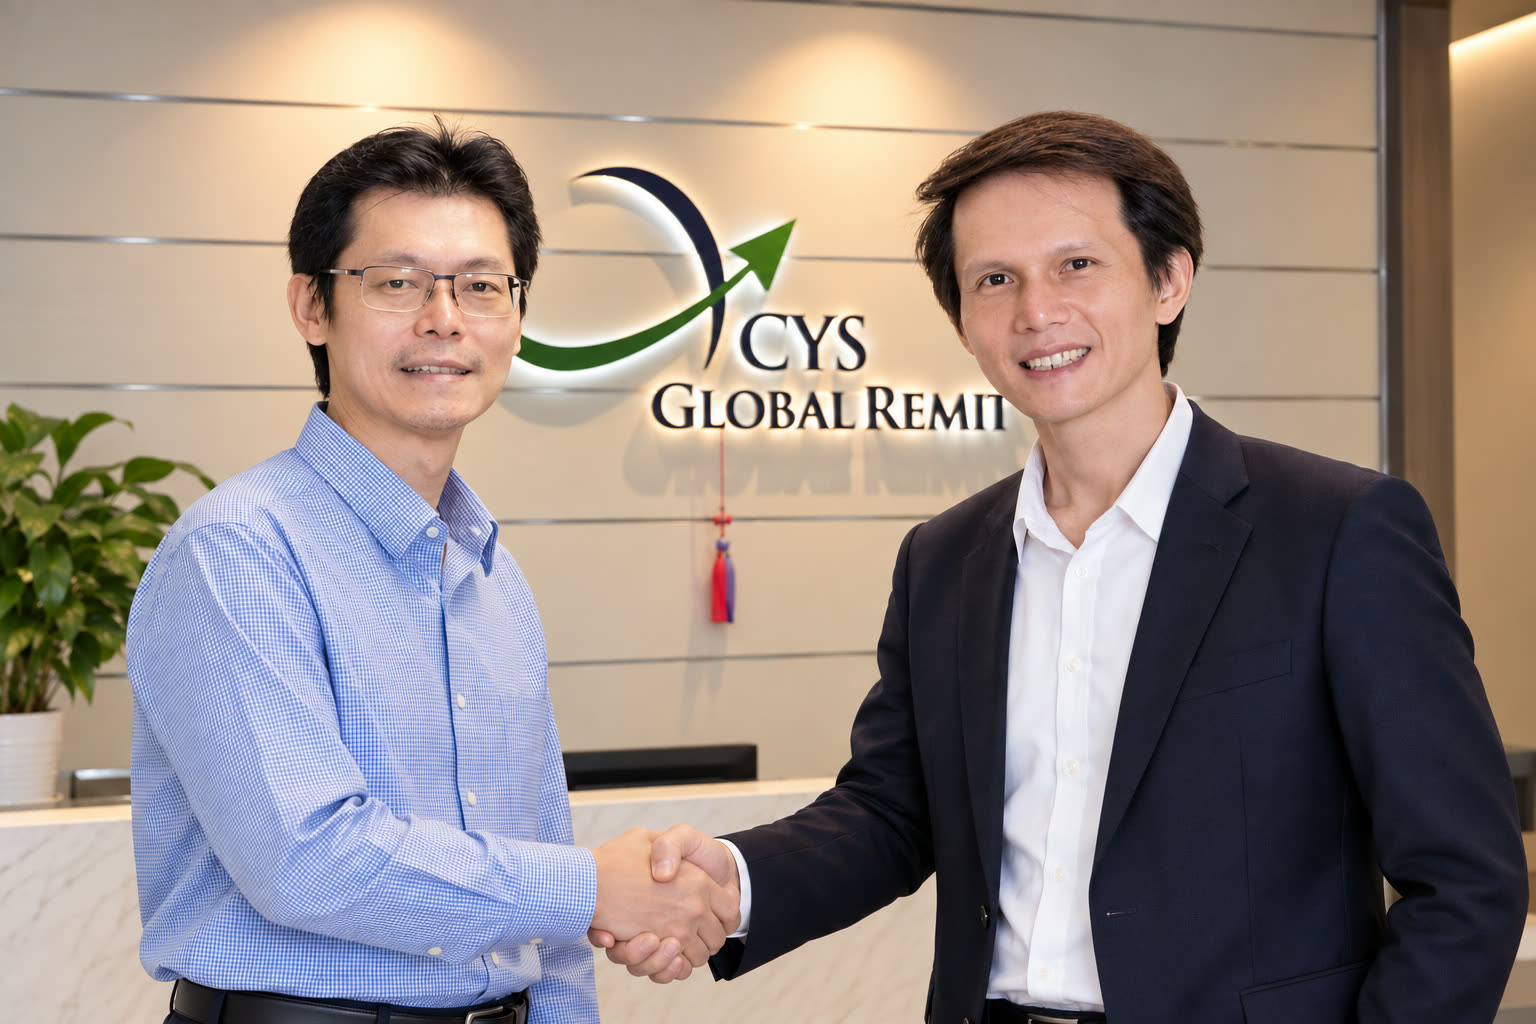
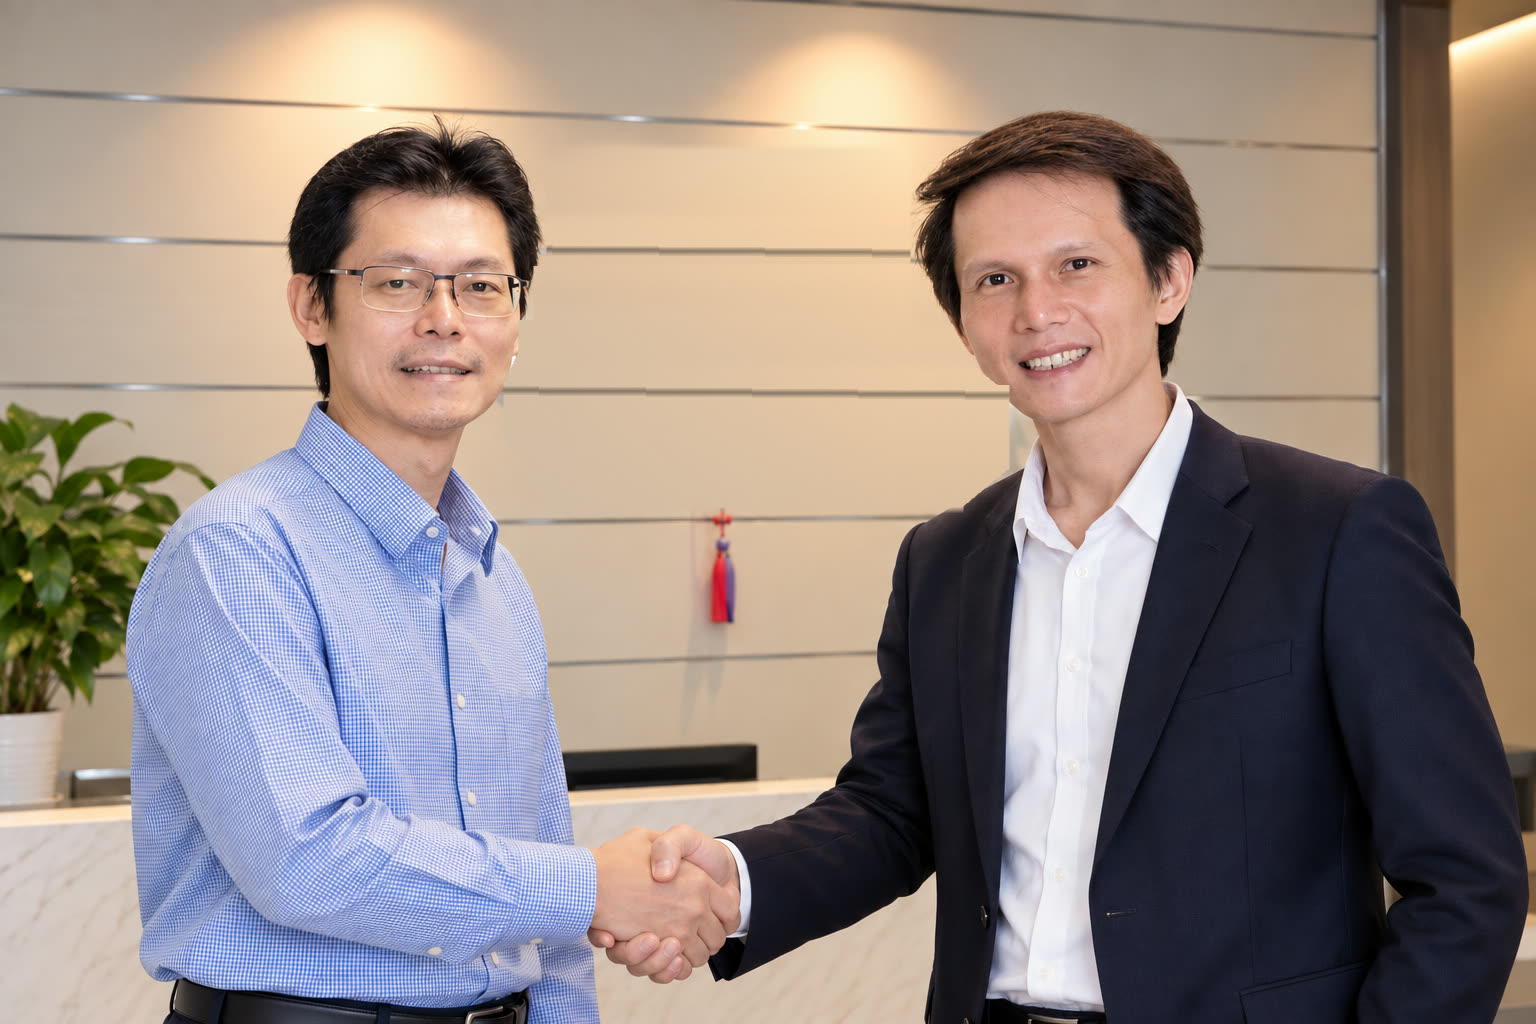
fix: resolve round 2 brand and contact decisions
- Retouch old-brand sign, shirt and mug logos out of client photos
- Contact: drop old-brand email and pending channel placeholders;
  link the online enquiry form instead
- Business nav item becomes a direct link (single audience remains)
- Align home audience photo heights

Changed region(s): [[0.3125, 0.1562, 0.6562, 0.5]]

diff --git a/wireframe/src/pages/Forms.jsx b/wireframe/src/pages/Forms.jsx
@@ -124,15 +124,13 @@ export function Contact({ postId = null }) {
                 <dd>
                   <a href="tel:+6562262088">+65 6226 2088</a>
                 </dd>
-                <dt>{t("邮箱", "Email")}</dt>
-                <dd>{t("待客户确认", "Awaiting client confirmation")}</dd>
+                <dt>{t("在线咨询", "Online enquiry")}</dt>
+                <dd>
+                  <Link className="text-link" to="/contact?tab=enquiry">
+                    {t("填写咨询表单", "Send us an enquiry")}
+                  </Link>
+                </dd>
               </dl>
-              <p className="small muted">
-                {t(
-                  "邮箱、微信与 WhatsApp 详情待确认，请使用右侧演示咨询。",
-                  "Email, WeChat and WhatsApp details are pending; use the demo enquiry here.",
-                )}
-              </p>
               <Link className="text-link" to="/faq">
                 {t("浏览常见问题", "Browse frequently asked questions")}
               </Link>

diff --git a/wireframe/src/components/Shell.jsx b/wireframe/src/components/Shell.jsx
@@ -38,11 +38,7 @@ export function Shell({ children }) {
       ],
     ],
     ["/forum", t("华商论坛", "Chinese Forum")],
-    [
-      "/business",
-      t("企业合作", "Business"),
-      [["?audience=business", t("跨境企业", "Cross-border corporates")]],
-    ],
+    ["/business", t("企业合作", "Business")],
     ["/individual", t("个人用户", "Individual")],
     [
       "/contact",
@@ -293,12 +289,6 @@ export function Shell({ children }) {
           <p>143 Cecil Street, #26-01 GB Building, Singapore 069542</p>
           <p>
             <a href="tel:+6562262088">+65 6226 2088</a>
-          </p>
-          <p>
-            {t(
-              "邮箱、微信与 WhatsApp 详情待确认。",
-              "Email, WeChat and WhatsApp details are to be confirmed.",
-            )}
           </p>
           <Link
             to="/contact"

diff --git a/wireframe/src/styles.css b/wireframe/src/styles.css
@@ -3627,6 +3627,12 @@ dialog::backdrop {
   }
 }
 
+@media (min-width: 768px) {
+  .audience-photo {
+    aspect-ratio: auto;
+    height: clamp(240px, 24vw, 380px);
+  }
+}
 /* Registration: optional company details are always visible. */
 fieldset.registration-extra {
   border: 0;

diff --git a/docs/review-requirements.md b/docs/review-requirements.md
@@ -85,14 +85,14 @@ Source: [threaded comment 1100580000185601](https://app.clickup.com/t/9018732219
 | p2 | Change the typeface of "40+" | Fixed: counters, timeline years and milestone year use a display serif (Didot / Bodoni 72 on macOS, Georgia fallback). |
 | p2, Skiper70 | About text animation, both scroll directions | Fixed: About heading and paragraphs reveal word by word as solid boxes resolving into text, tied to scroll position so it rewinds on scroll up. |
 | p3 | Remove the video section | Already removed in round 1. |
-| p3 | Corporate page: show Financial and Cross-border users | Pending client decision: financial-institution content was removed by the 30 Sep de-financialisation list. Current page shows the cross-border audience without tabs. |
+| p3 | Corporate page: show Financial and Cross-border users | Decided: not re-added. The 30 Sep brief removes 金融机构 from navigation (p2) and strikes the tab (p6) so a non-financial operator can run the site without the China blocking risk. The page shows the cross-border audience without tabs, and 企业合作 is now a direct link because its dropdown had a single item. |
 | p4 | Do not hide 补充企业资料（选填） | Fixed: optional company fields are always visible. |
 | p4 | Home audience photos | Fixed: business and individual photos added to both cards. |
 | p5 | About page photo | Fixed: full-width city photo below the introduction. |
 | p5 | Business page photo | Fixed: photo beside the page title. |
 | p6 | Individual page photo | Fixed: photo beside the page title. |
-| Contact Us.docx | Address, phone, email, WhatsApp, WeChat | Address and phone added. Email `enquiry@cys.com.sg` held because it shows the old brand (5 Oct instruction). WhatsApp and WeChat had no values in the document. |
+| Contact Us.docx | Address, phone, email, WhatsApp, WeChat | Address and phone added. Decided: `enquiry@cys.com.sg` not published, because the old remittance brand's domain would tie the new non-financial operator back to CYS Global Remit. The email row links to the online enquiry form instead. WhatsApp and WeChat had no values, so no placeholder rows are shown. |
 
-Photos were resized to 1600px JPEGs. The handshake photo shows wall signage and the individual photo shows logo shirts and a mug from the old brand; they are used as supplied pending client confirmation.
+Photos were resized to 1600px JPEGs. Decided: old-brand marks were retouched out locally (no third-party service): the CYS Global Remit wall sign behind the handshake was replaced with rebuilt wall (grooves and lighting continued), and the shirt and mug logos in the consultation photo were removed. Originals are unchanged in ClickUp.
 
 Verified 2026-10-12: lint, 30/30 unit tests and production build passed. Browser suites passed 18 basic + 46 extended + 28 built-runtime + 15 revision + 35 review checks (142 total) with zero recorded errors. The 420-route responsive matrix passed with zero failures, including rendered legacy-brand text checks. The review suite's reveal checks were updated for the new box-reveal markup.
